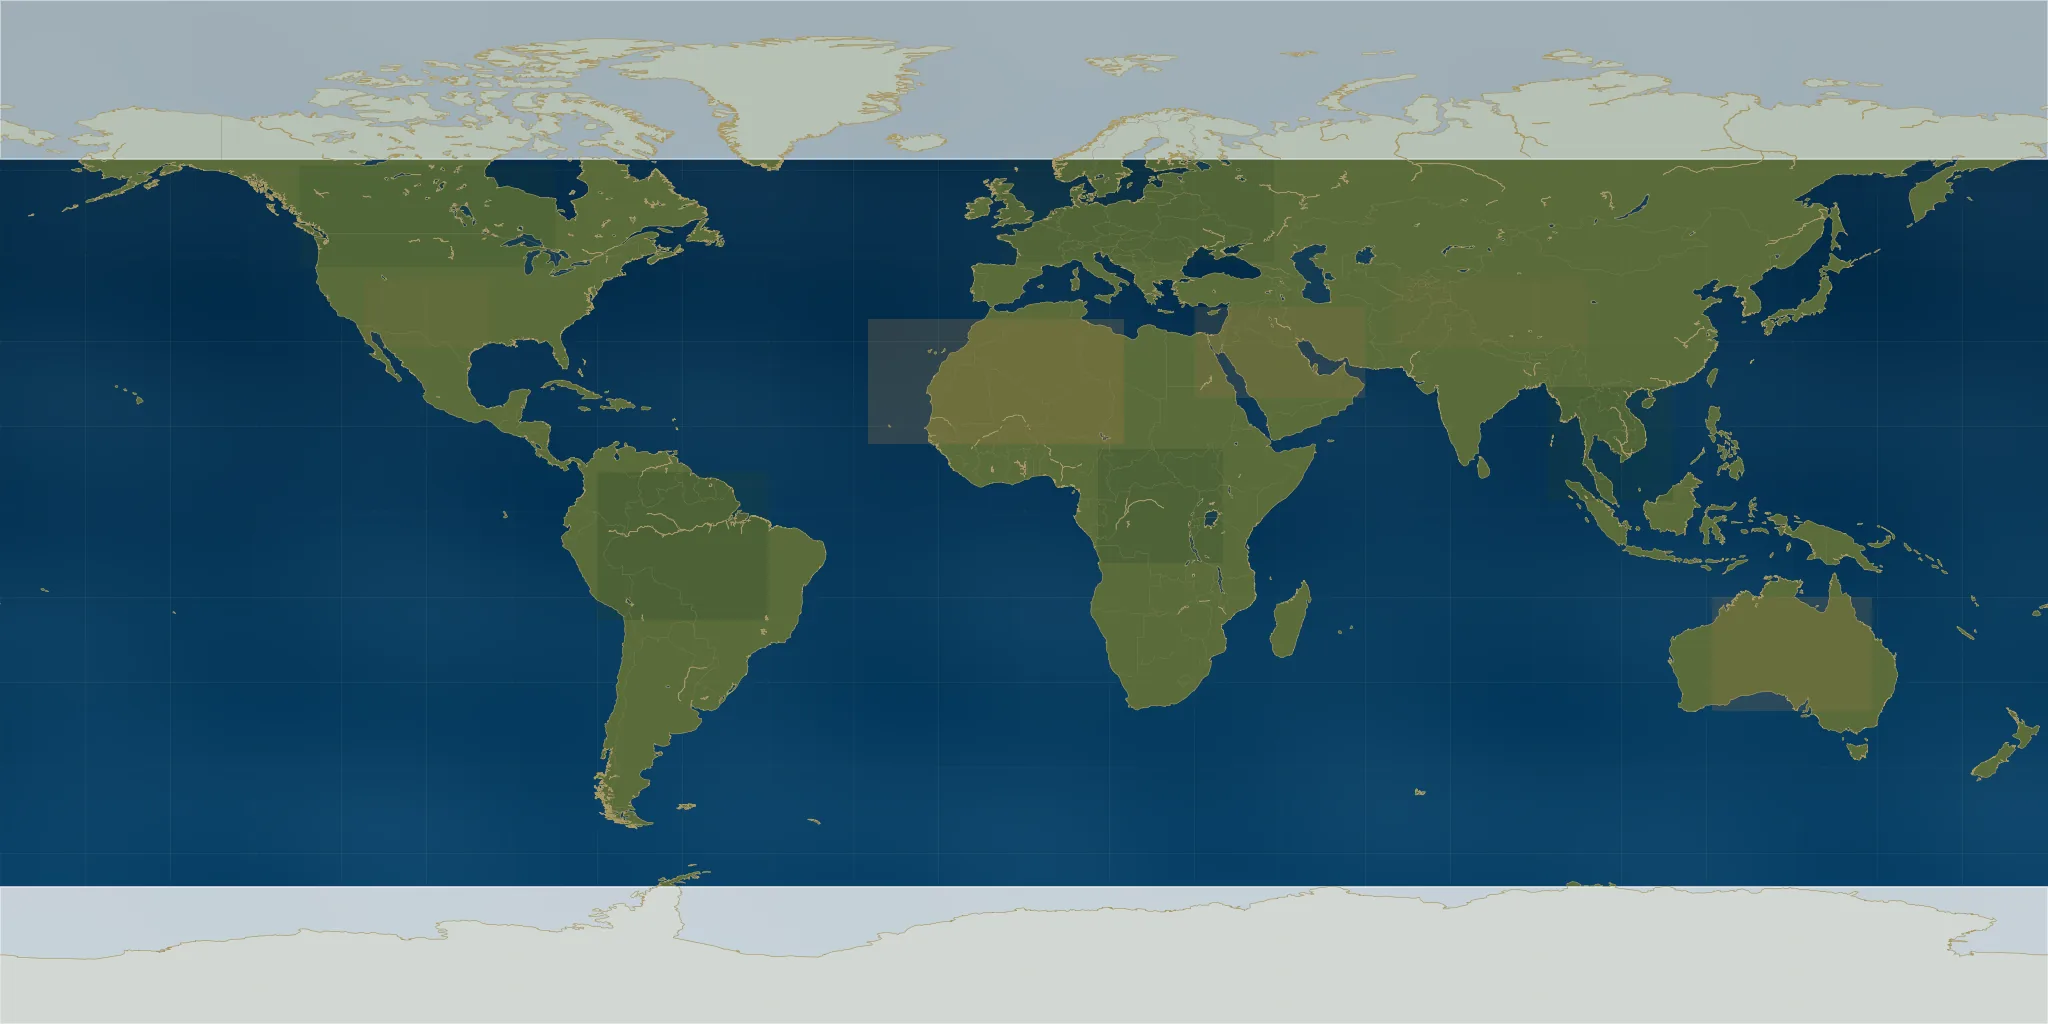
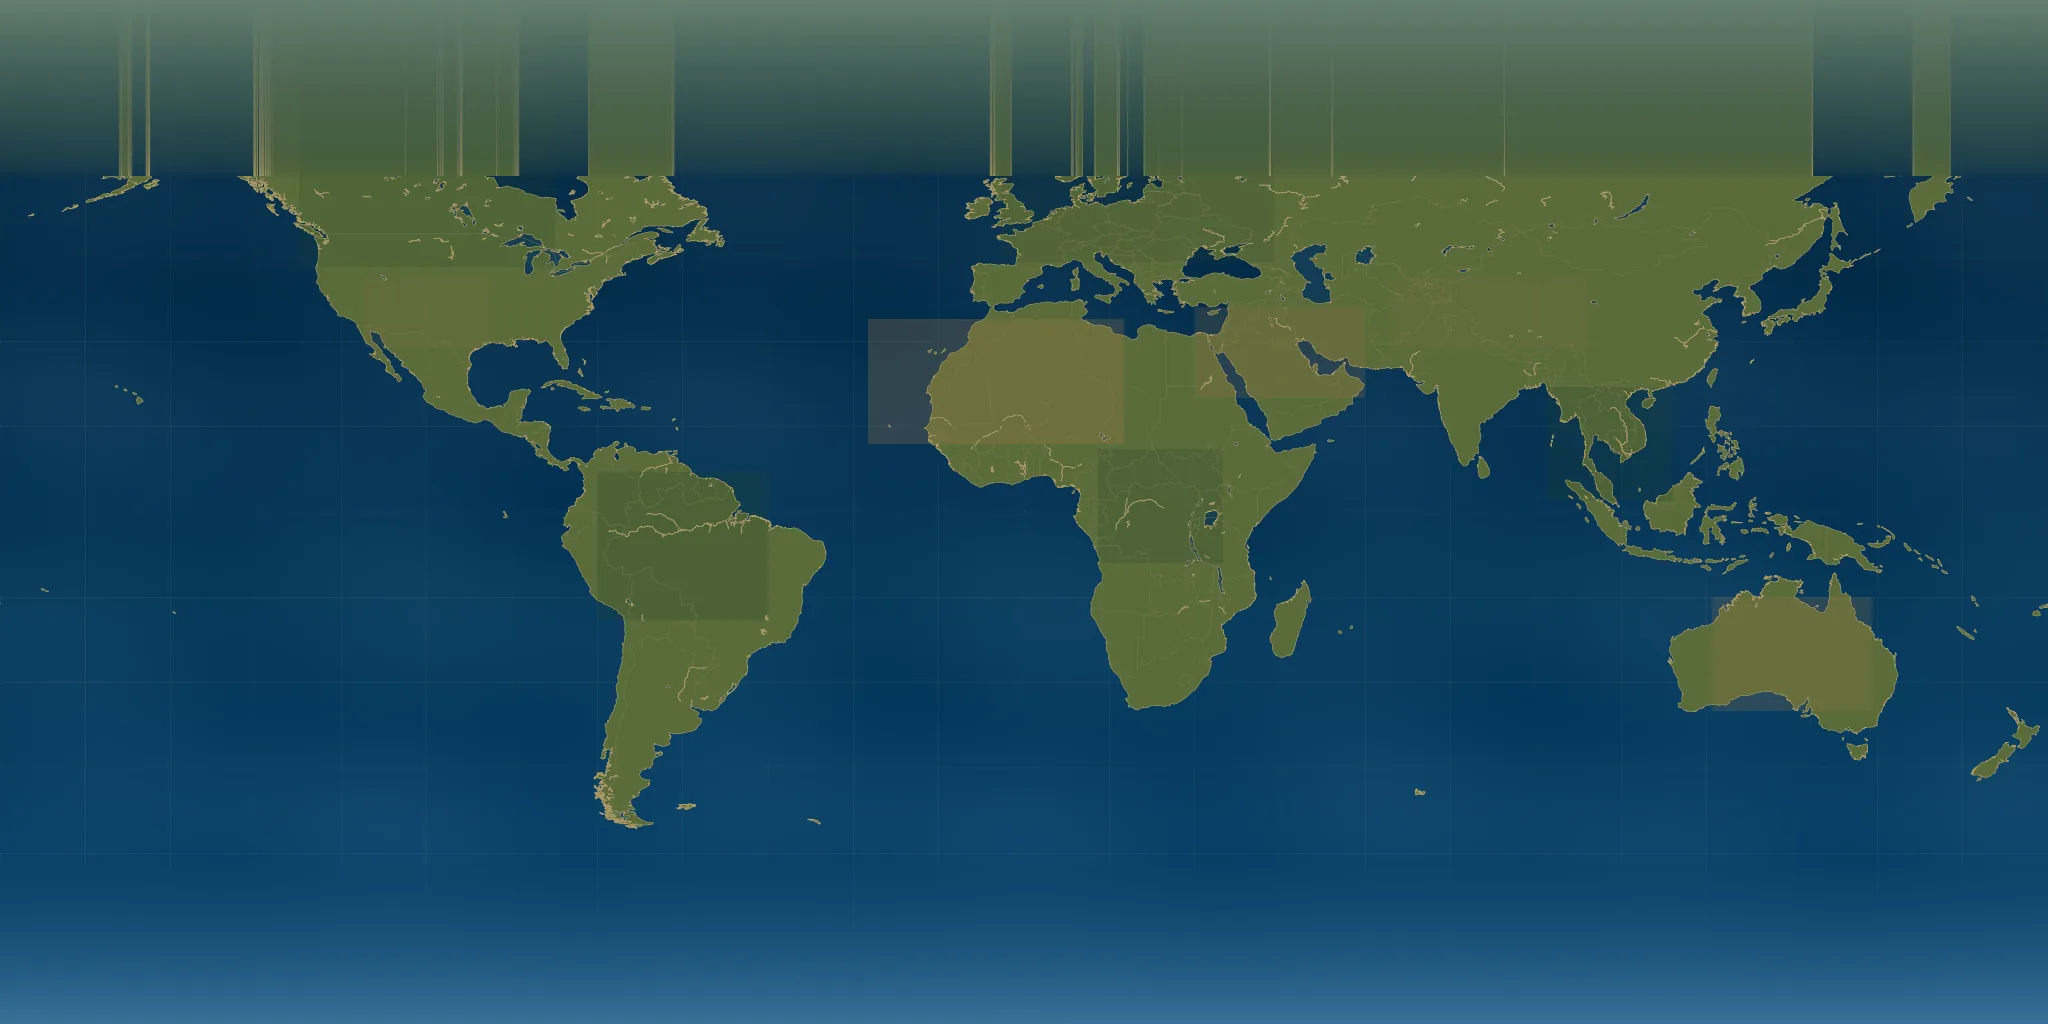
Fighter World: the pale disc on the globe was the ice cap, not a moon
The source Earth map draws both ice caps as a flat slab of pale grey running
from the edge of the image down to about sixty degrees - a sixth of the map at
each pole, with a hard horizontal cut where it meets the sea. Wrapped onto a
sphere that converges into a pale ellipse a quarter the width of the visible
face, sitting against dark ocean with a crisp edge, and it reads as a circle
stuck onto the planet rather than as part of it.

The polar rows take the sea and land immediately beyond the band now, with a
small lift toward white that fades out well before the band ends. There is
still ice at the pole; it has just stopped being the brightest object on the
menu.

Two things came with it:

  - Every column of an equirectangular map meets at one point at the pole, so
    any variation along a polar row is fanned out into spokes radiating from
    it - which is what turned up the moment the flat slab hiding it was gone.
    Each row is averaged toward its own mean as it approaches the pole, so
    there is nothing left to fan.
  - The key light was at 4.0 against a tone-mapped scene and blew out the
    whole lit quarter. It sits at 1.9 with more of the fill carried by the
    hemisphere light, which models the sphere instead of flaring it.

I told the user this was a moon in the scene. There is no moon in the scene; I
should have read the file before answering.

Claude-Session: https://claude.ai/code/session_01413Kigym6PV2ePAFVdqKJo

Changed region(s): [[0.0, 0.0, 1.0, 0.1875], [0.0, 0.8438, 1.0, 1.0]]

diff --git a/src/game/stickfight/ui/fighter-world/FighterWorld3D.tsx b/src/game/stickfight/ui/fighter-world/FighterWorld3D.tsx
@@ -171,8 +171,13 @@ export function FighterWorld3D({ initialFighterId = "roman", onSelectFighter, on
     renderer.toneMappingExposure = 1.05;
     mount.appendChild(renderer.domElement);
 
-    scene.add(new THREE.HemisphereLight(0x9cc8ff, 0x120a05, 1.5));
-    const key = new THREE.DirectionalLight(0xffddb0, 4.0);
+    // The key was at 4.0 against a tone-mapped scene, which put a blown-out
+    // white bloom across the whole lit quarter of the globe - the thing that
+    // reads on the menu as a circle stuck on the planet. It sits low enough
+    // now to model the sphere rather than flare it, and the hemisphere light
+    // carries more of the fill so the dark side does not go to nothing.
+    scene.add(new THREE.HemisphereLight(0x9cc8ff, 0x120a05, 2.1));
+    const key = new THREE.DirectionalLight(0xffddb0, 1.9);
     key.position.set(-5, 6, 7);
     scene.add(key);
     const rim = new THREE.DirectionalLight(0x4d80ff, 2.2);
